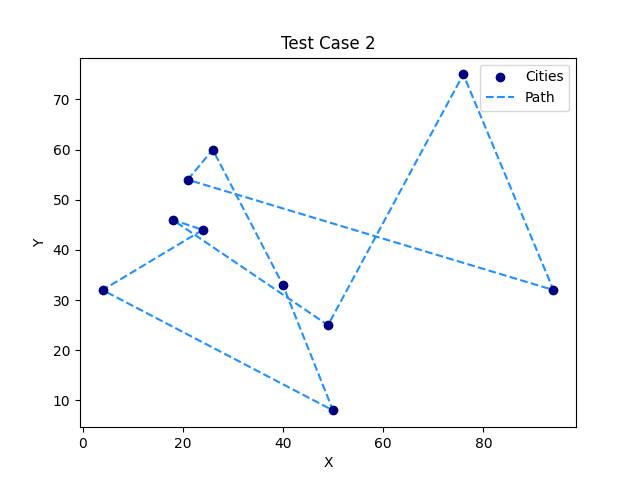
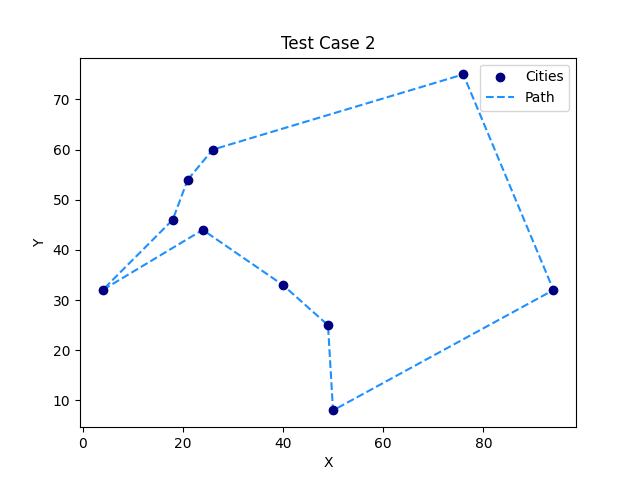
Complete dynamic programming solution construction

diff --git a/HW3/dynamic.h b/HW3/dynamic.h
@@ -29,23 +29,25 @@ private:
     vector<pos_t> city_pos;
 
     // solutions
-    sol_t curr_sol;
-    double curr_dis;
-
     sol_t best_sol;
     double best_dis;
 
     // variables
     const double INF = 1e9;
+    const int start_id = 0;      // default starting from city_ids[0]
+
+    int start_city, total_states;
+
     vector<int> bits__id;
     vector<vector<double>> dp_table; 
+    vector<vector<pair<int, int>>> prev_table;
 
     // iteration
     int total_iter = 0;
 
     // processing
     void init();
-    void startPoint(const int& start_id);
+    sol_t reconstructSol(int state, int last_id) const;
     inline double calcDis(const pos_t& a, const pos_t& b) const;
 
 };
@@ -64,28 +66,6 @@ void DynamicProgramming::solve(){
 
     init();
 
-    startPoint(0);
-    best_sol = curr_sol;
-    best_dis = curr_dis;
-
-}
-
-void DynamicProgramming::init(){
-
-    curr_sol.clear();
-    curr_dis = 0.0;
-
-    best_sol.clear();
-    best_dis = 1e9;
-
-    bits__id.resize(city_ids.size() - 1);
-
-    total_iter = city_ids.size();
-
-}
-
-void DynamicProgramming::startPoint(const int& start_id){
-
     // initialize bits_id
     for(int i=0, j=0; i<city_ids.size(); i++){
 
@@ -97,20 +77,16 @@ void DynamicProgramming::startPoint(const int& start_id){
     }
 
     // Variables
-    int start_city = city_ids[start_id];
-    int total_states = (1 << bits__id.size());
-    dp_table.assign(total_states, vector<double>(city_ids.size(), INF));
+    int visit_city, last_city, last_id, prev_state;
+    double dis, temp_dis;
 
     // First state initialization
     for(int visit=0; visit<city_ids.size(); visit++){
 
-        int visit_city = city_ids[visit];
+        visit_city = city_ids[visit];
         dp_table[0][visit] = calcDis(city_pos[start_city], city_pos[visit_city]);
 
     }
-
-    int visit_city, last_city, last_id, prev_state;
-    double dis;
 
     // DP state transition using bottom method
     for(int state=1; state<total_states; state++){
@@ -129,7 +105,14 @@ void DynamicProgramming::startPoint(const int& start_id){
                     // Update dp table from previous state
                     prev_state = (state ^ (1 << b));
                     dis = calcDis(city_pos[last_city], city_pos[visit_city]);
-                    dp_table[state][visit] = min(dp_table[state][visit], dp_table[prev_state][last_id] + dis);
+                    temp_dis = dp_table[prev_state][last_id] + dis;
+
+                    if(temp_dis < dp_table[state][visit]){
+
+                        dp_table[state][visit] = temp_dis;
+                        prev_table[state][visit] = {prev_state, last_id};
+
+                    }
 
                 }
 
@@ -141,8 +124,46 @@ void DynamicProgramming::startPoint(const int& start_id){
 
     }
 
-    curr_sol = city_ids;
-    curr_dis = dp_table[total_states-1][start_id];
+    best_sol = reconstructSol(total_states-1, start_id);
+    best_dis = dp_table[total_states-1][start_id];
+
+}
+
+void DynamicProgramming::init(){
+
+    best_sol.clear();
+    best_dis = 1e9;
+
+    bits__id.resize(city_ids.size() - 1);
+    
+    start_city = city_ids[start_id];
+    total_states = (1 << bits__id.size());
+    dp_table.assign(total_states, vector<double>(city_ids.size(), INF));
+    prev_table.assign(total_states, vector<pair<int, int>>(city_ids.size(), {-1, -1}));
+
+    total_iter = city_ids.size();
+
+}
+
+sol_t DynamicProgramming::reconstructSol(int state, int last_id) const {
+
+    sol_t sol;
+    sol.push_back(city_ids[last_id]);
+
+    int prev_state, prev_id;
+
+    while(state != 0){
+
+        prev_state = prev_table[state][last_id].first;
+        prev_id = prev_table[state][last_id].second;
+
+        sol.push_back(city_ids[prev_id]);
+        state = prev_state;
+        last_id = prev_id;
+
+    }
+
+    return sol;
 
 }
 
